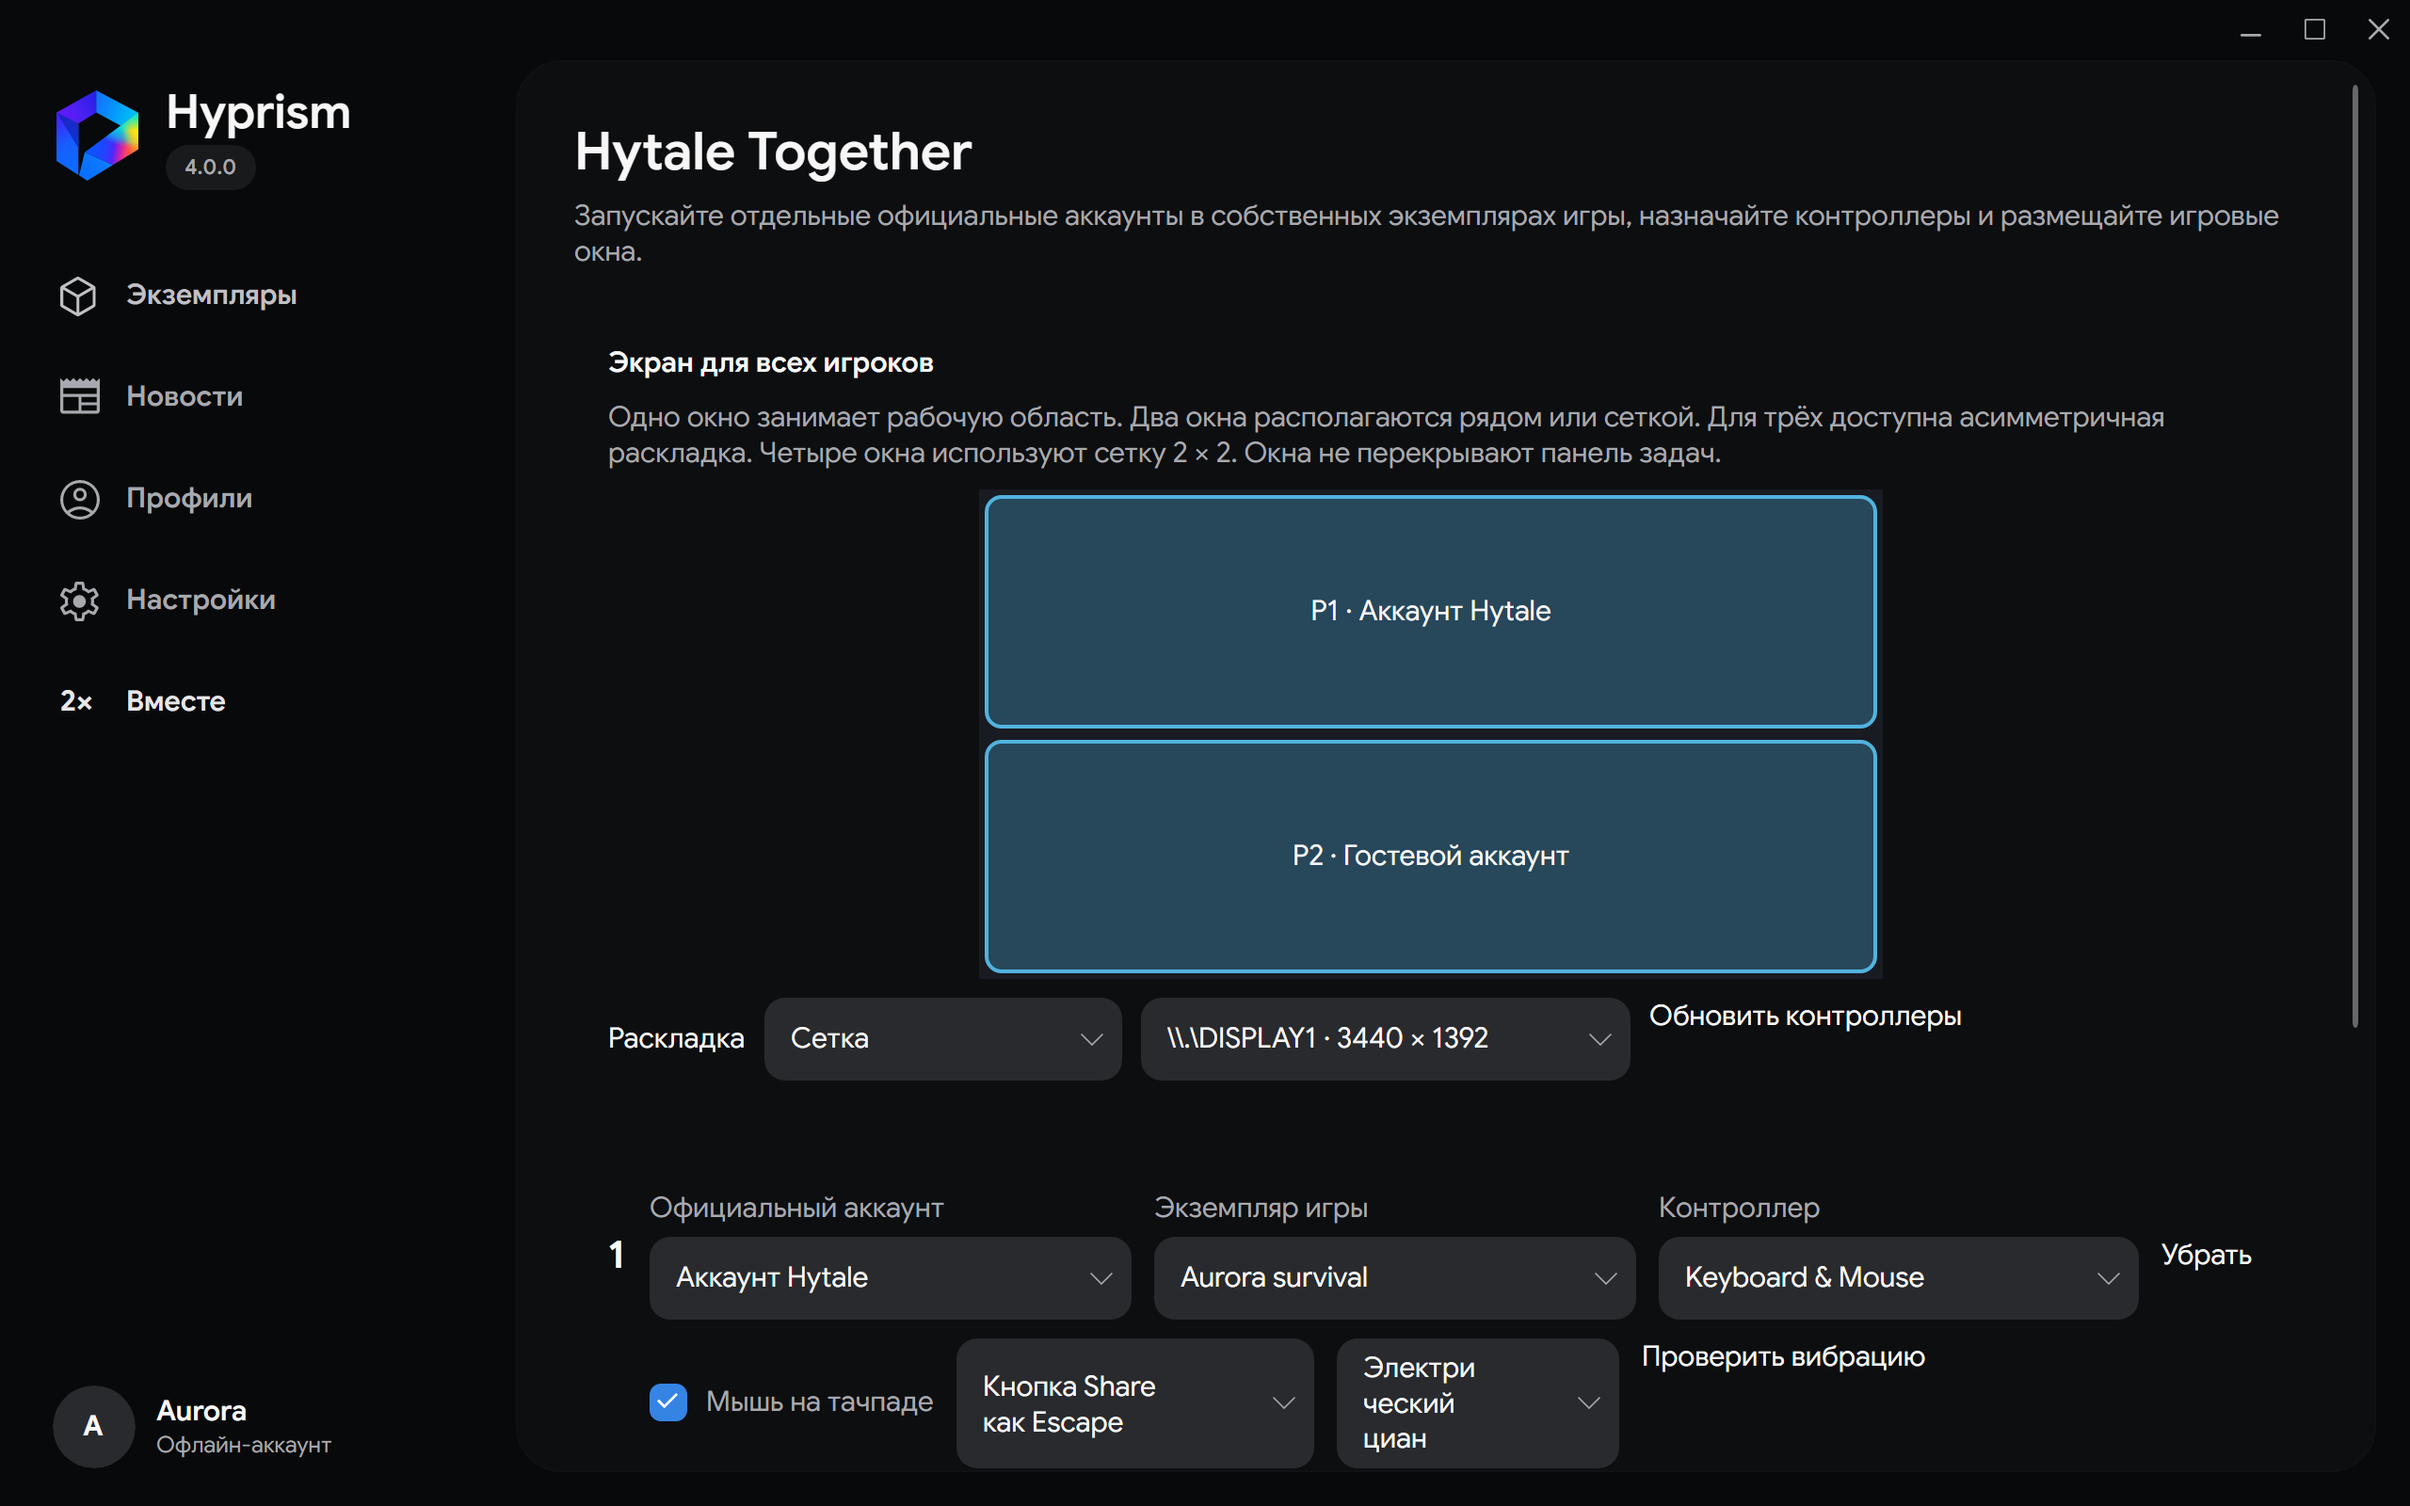
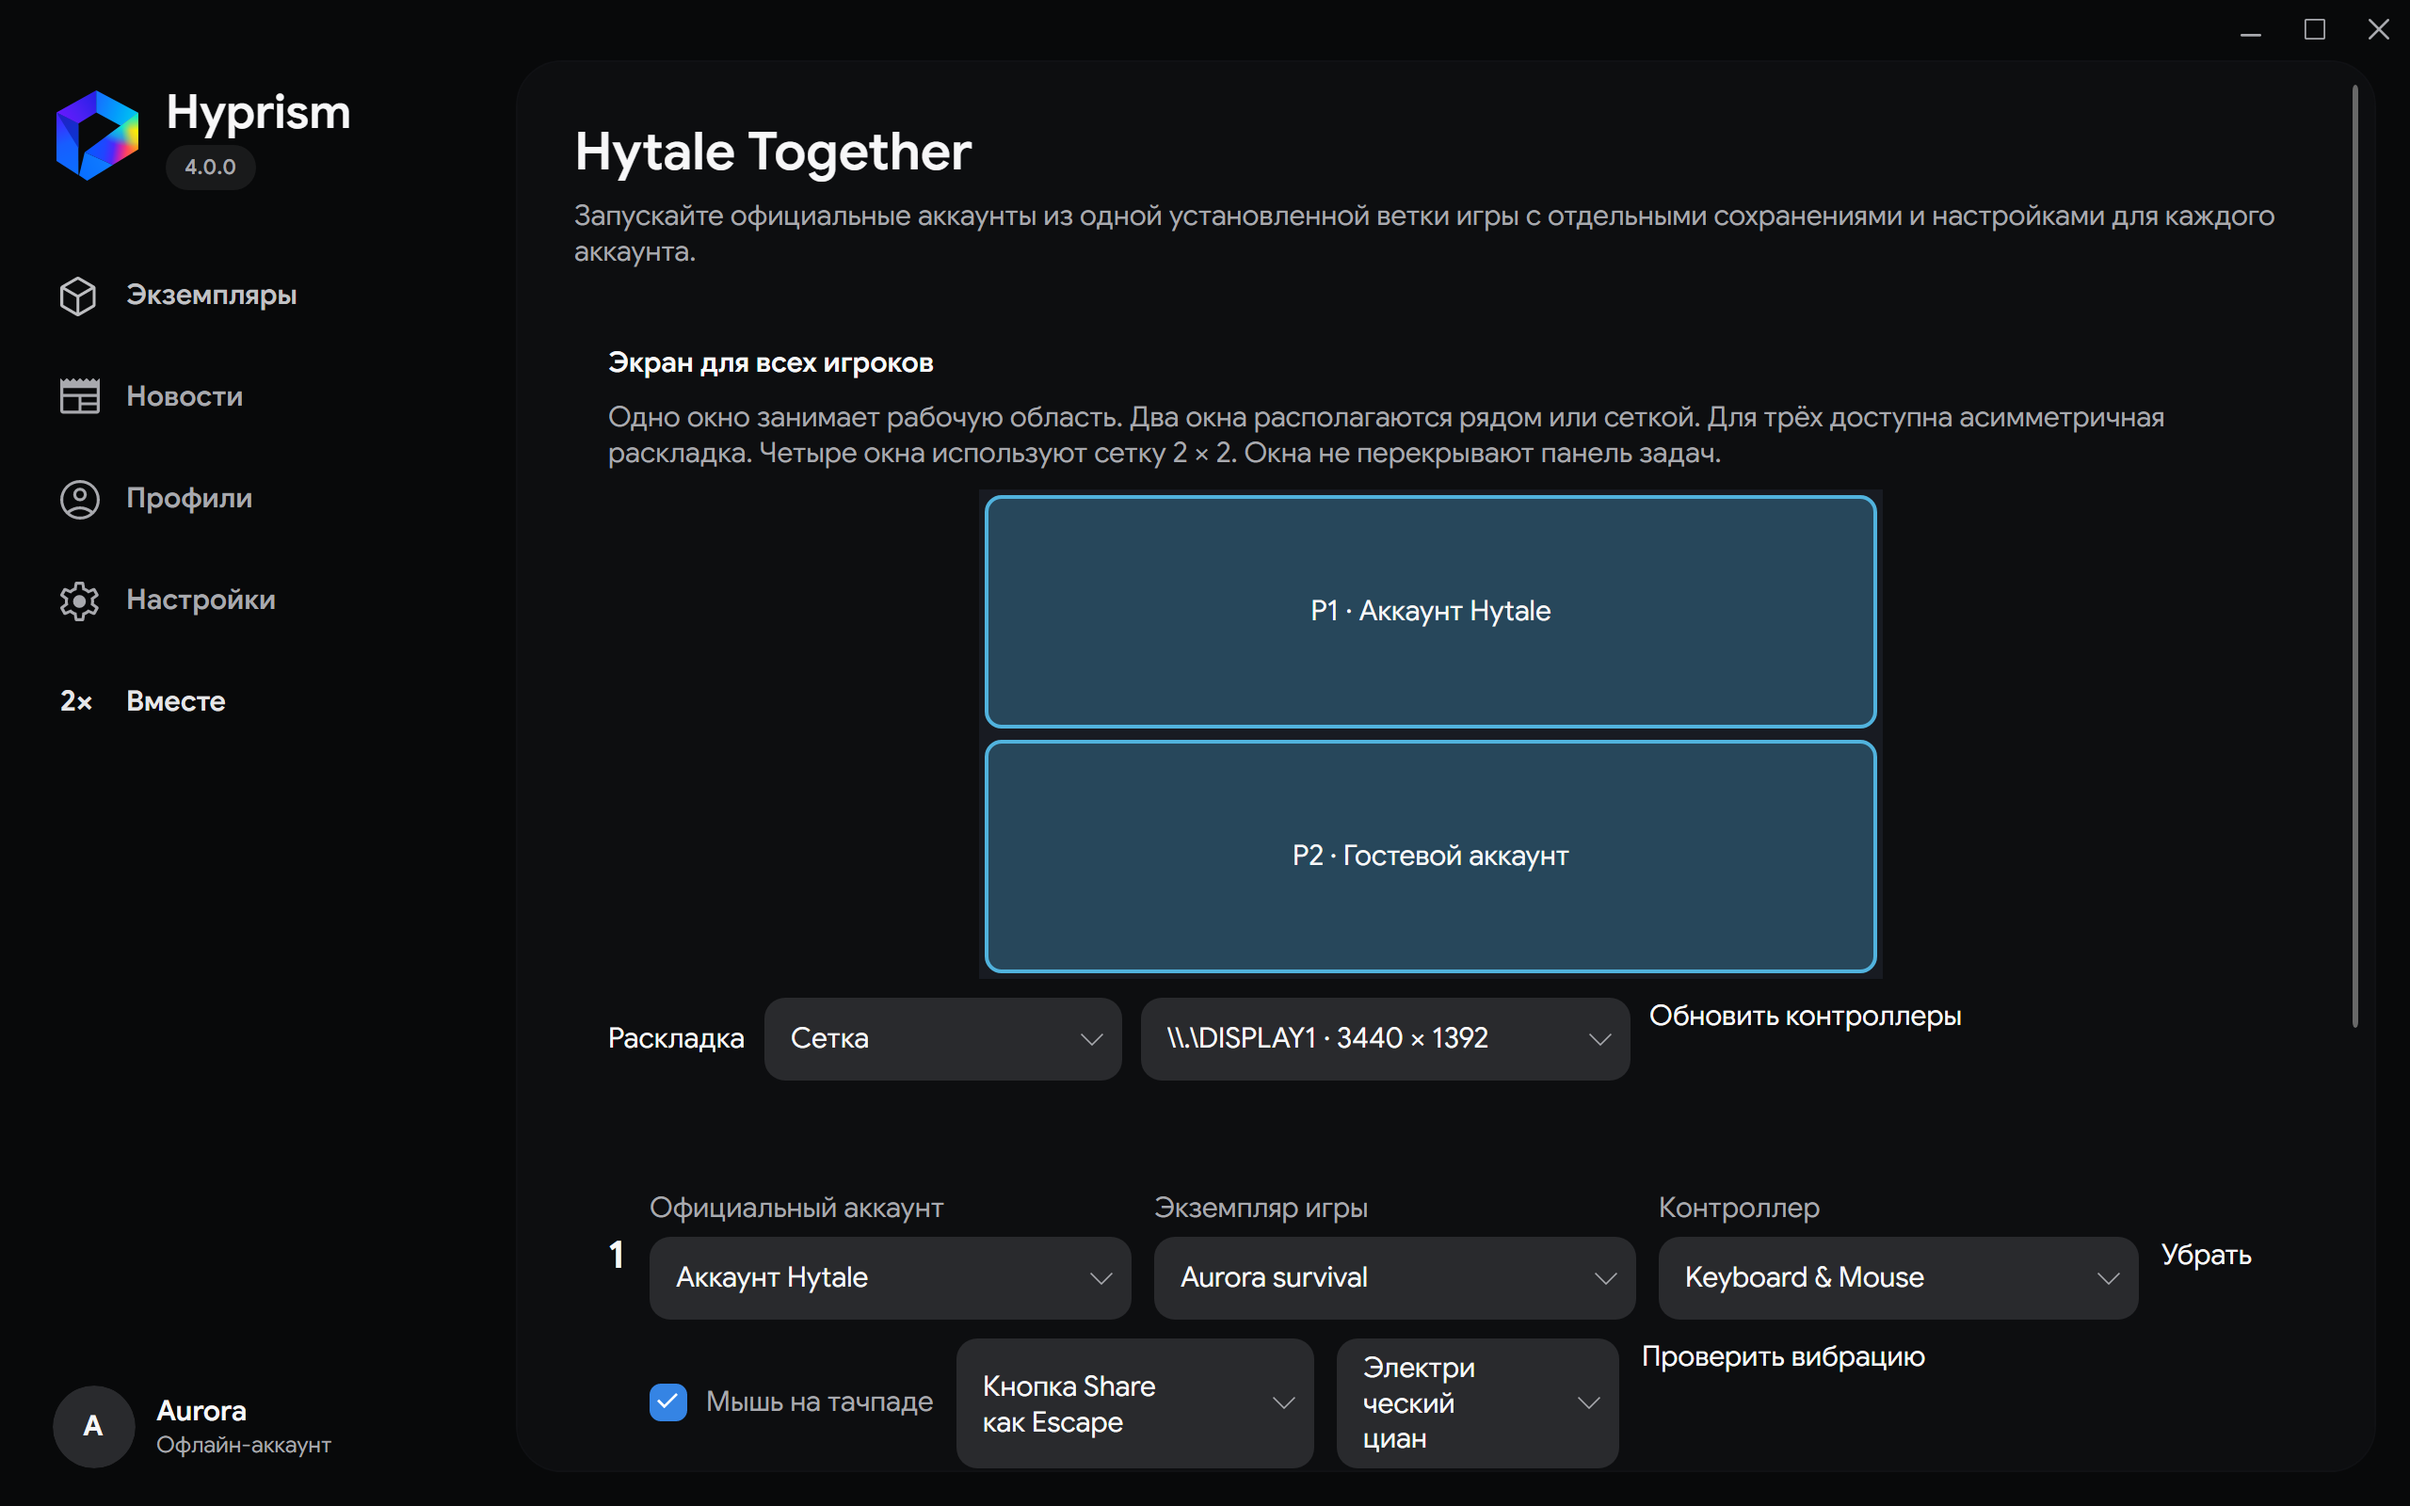
Correct Russian Together shared install copy

Changed region(s): [[0.3125, 0.125, 0.9375, 0.1562], [0.25, 0.1562, 0.2812, 0.1875]]

diff --git a/RELEASE_NOTES.md b/RELEASE_NOTES.md
@@ -5,6 +5,10 @@ SPDX-License-Identifier: GPL-3.0-only
 
 # Hyprism Together preview
 
+## Preview 3
+
+- Corrected the Russian Together subtitle and refreshed its screenshot to describe one shared installation.
+
 ## Preview 2
 
 - All players can launch from one installed game instance and branch.
